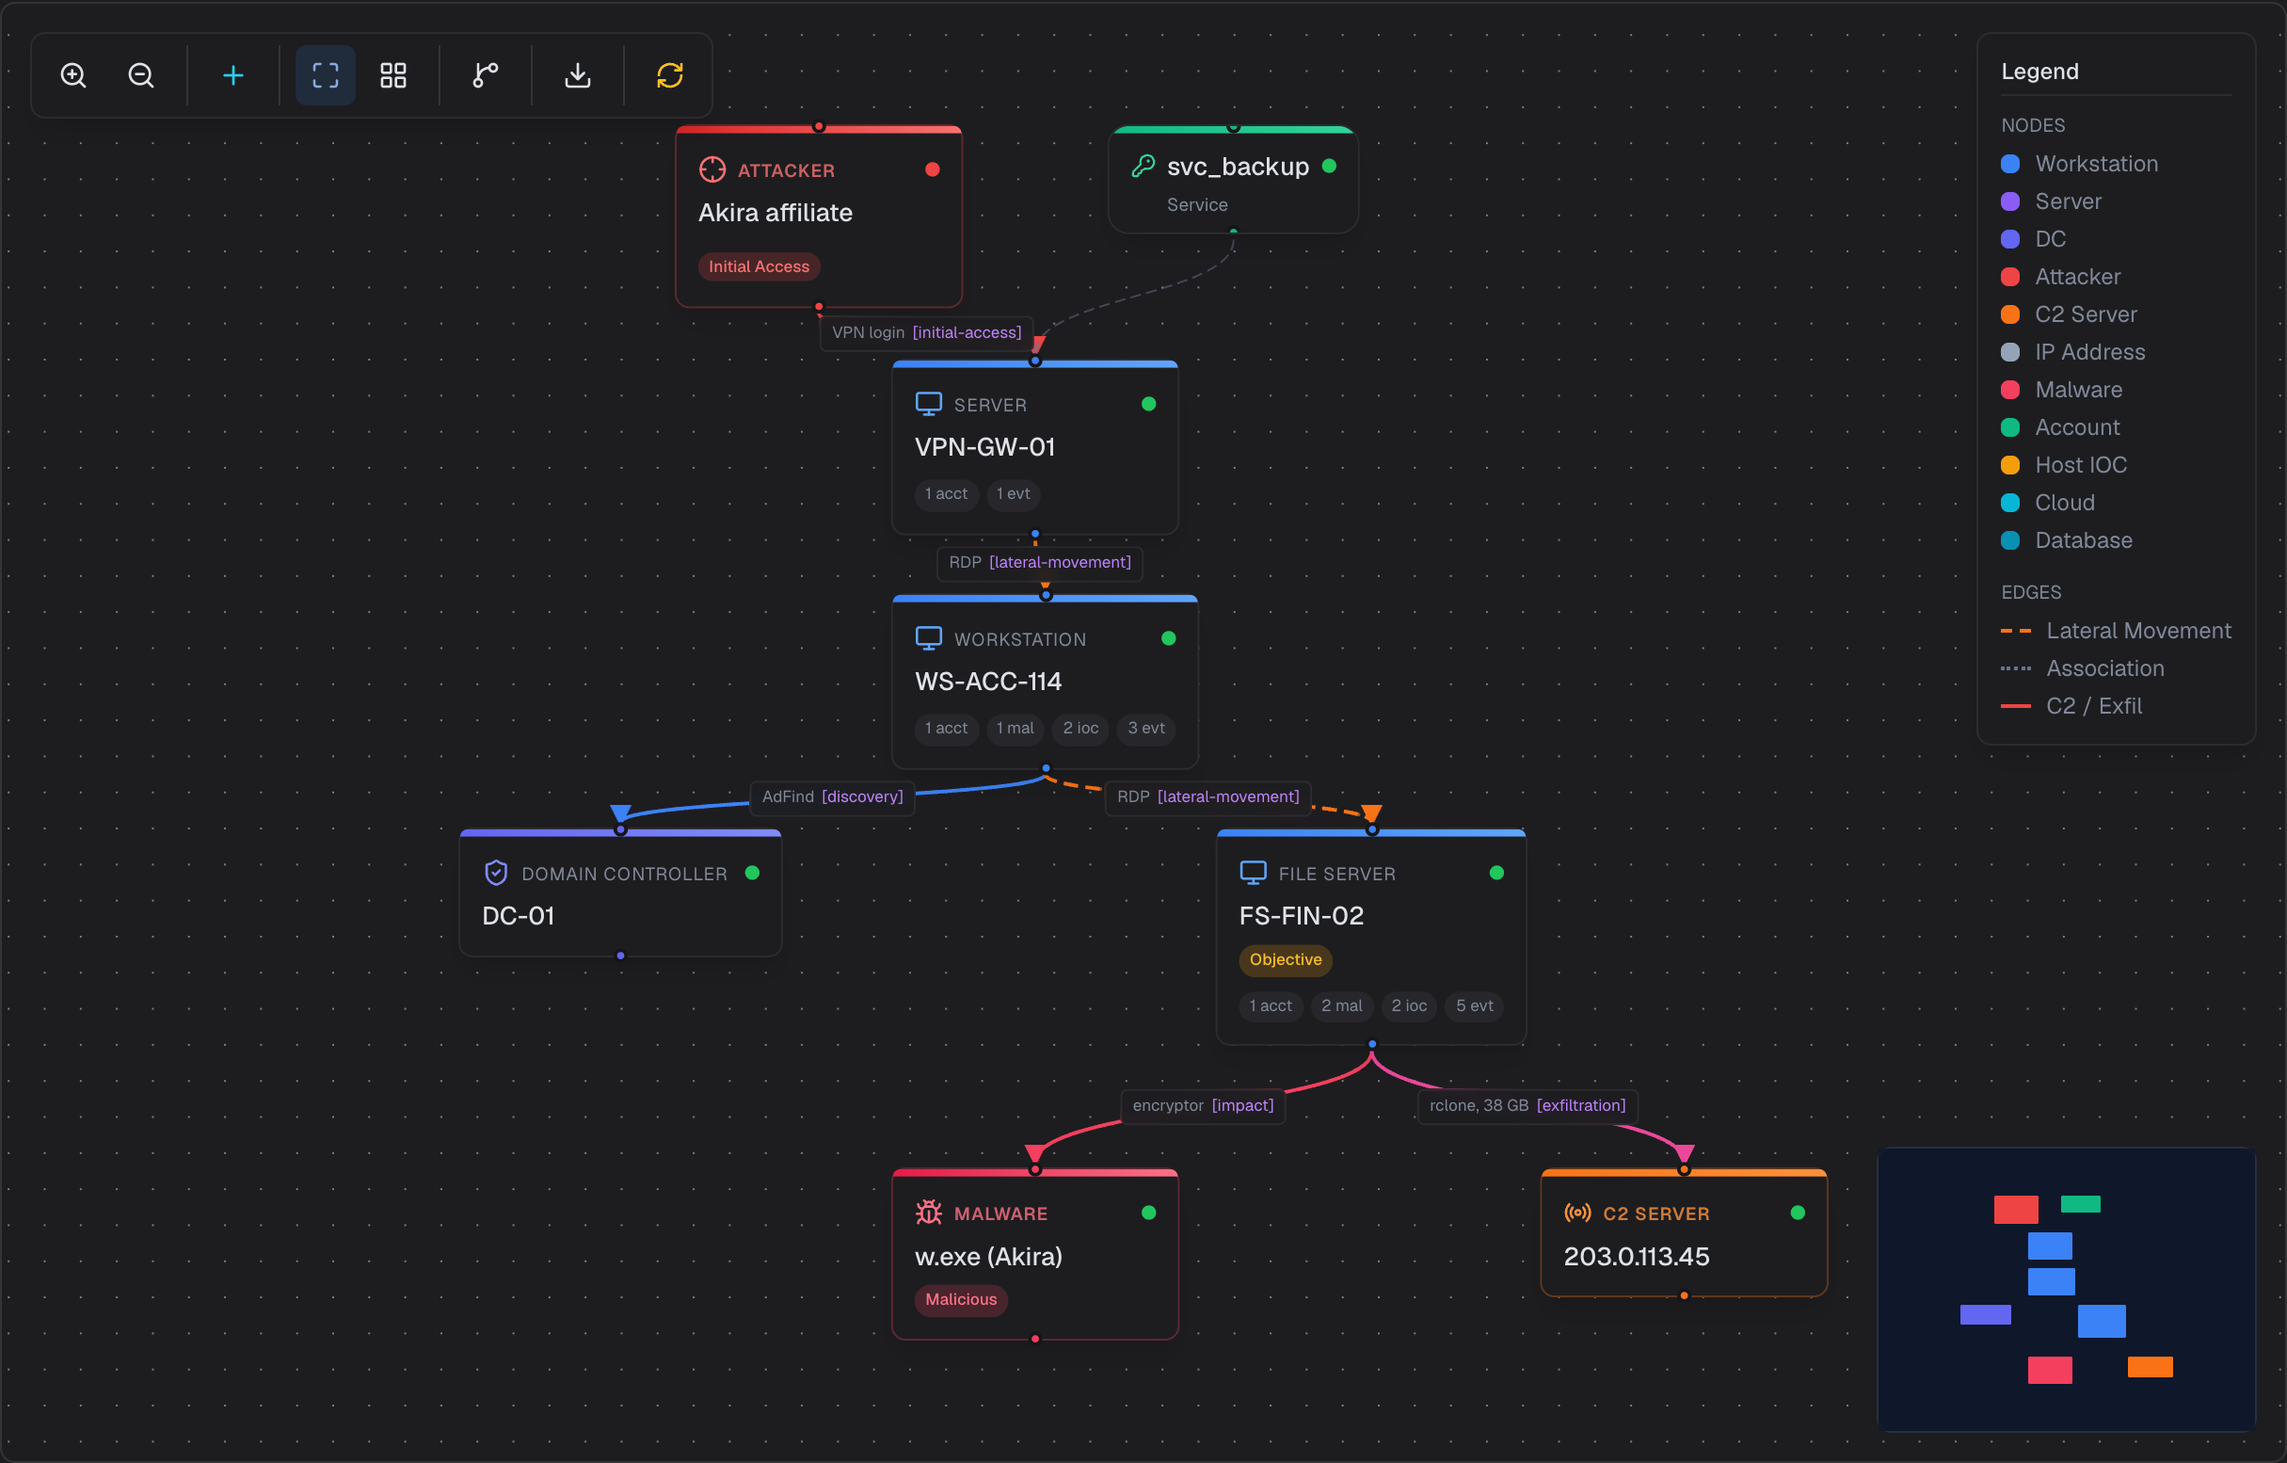
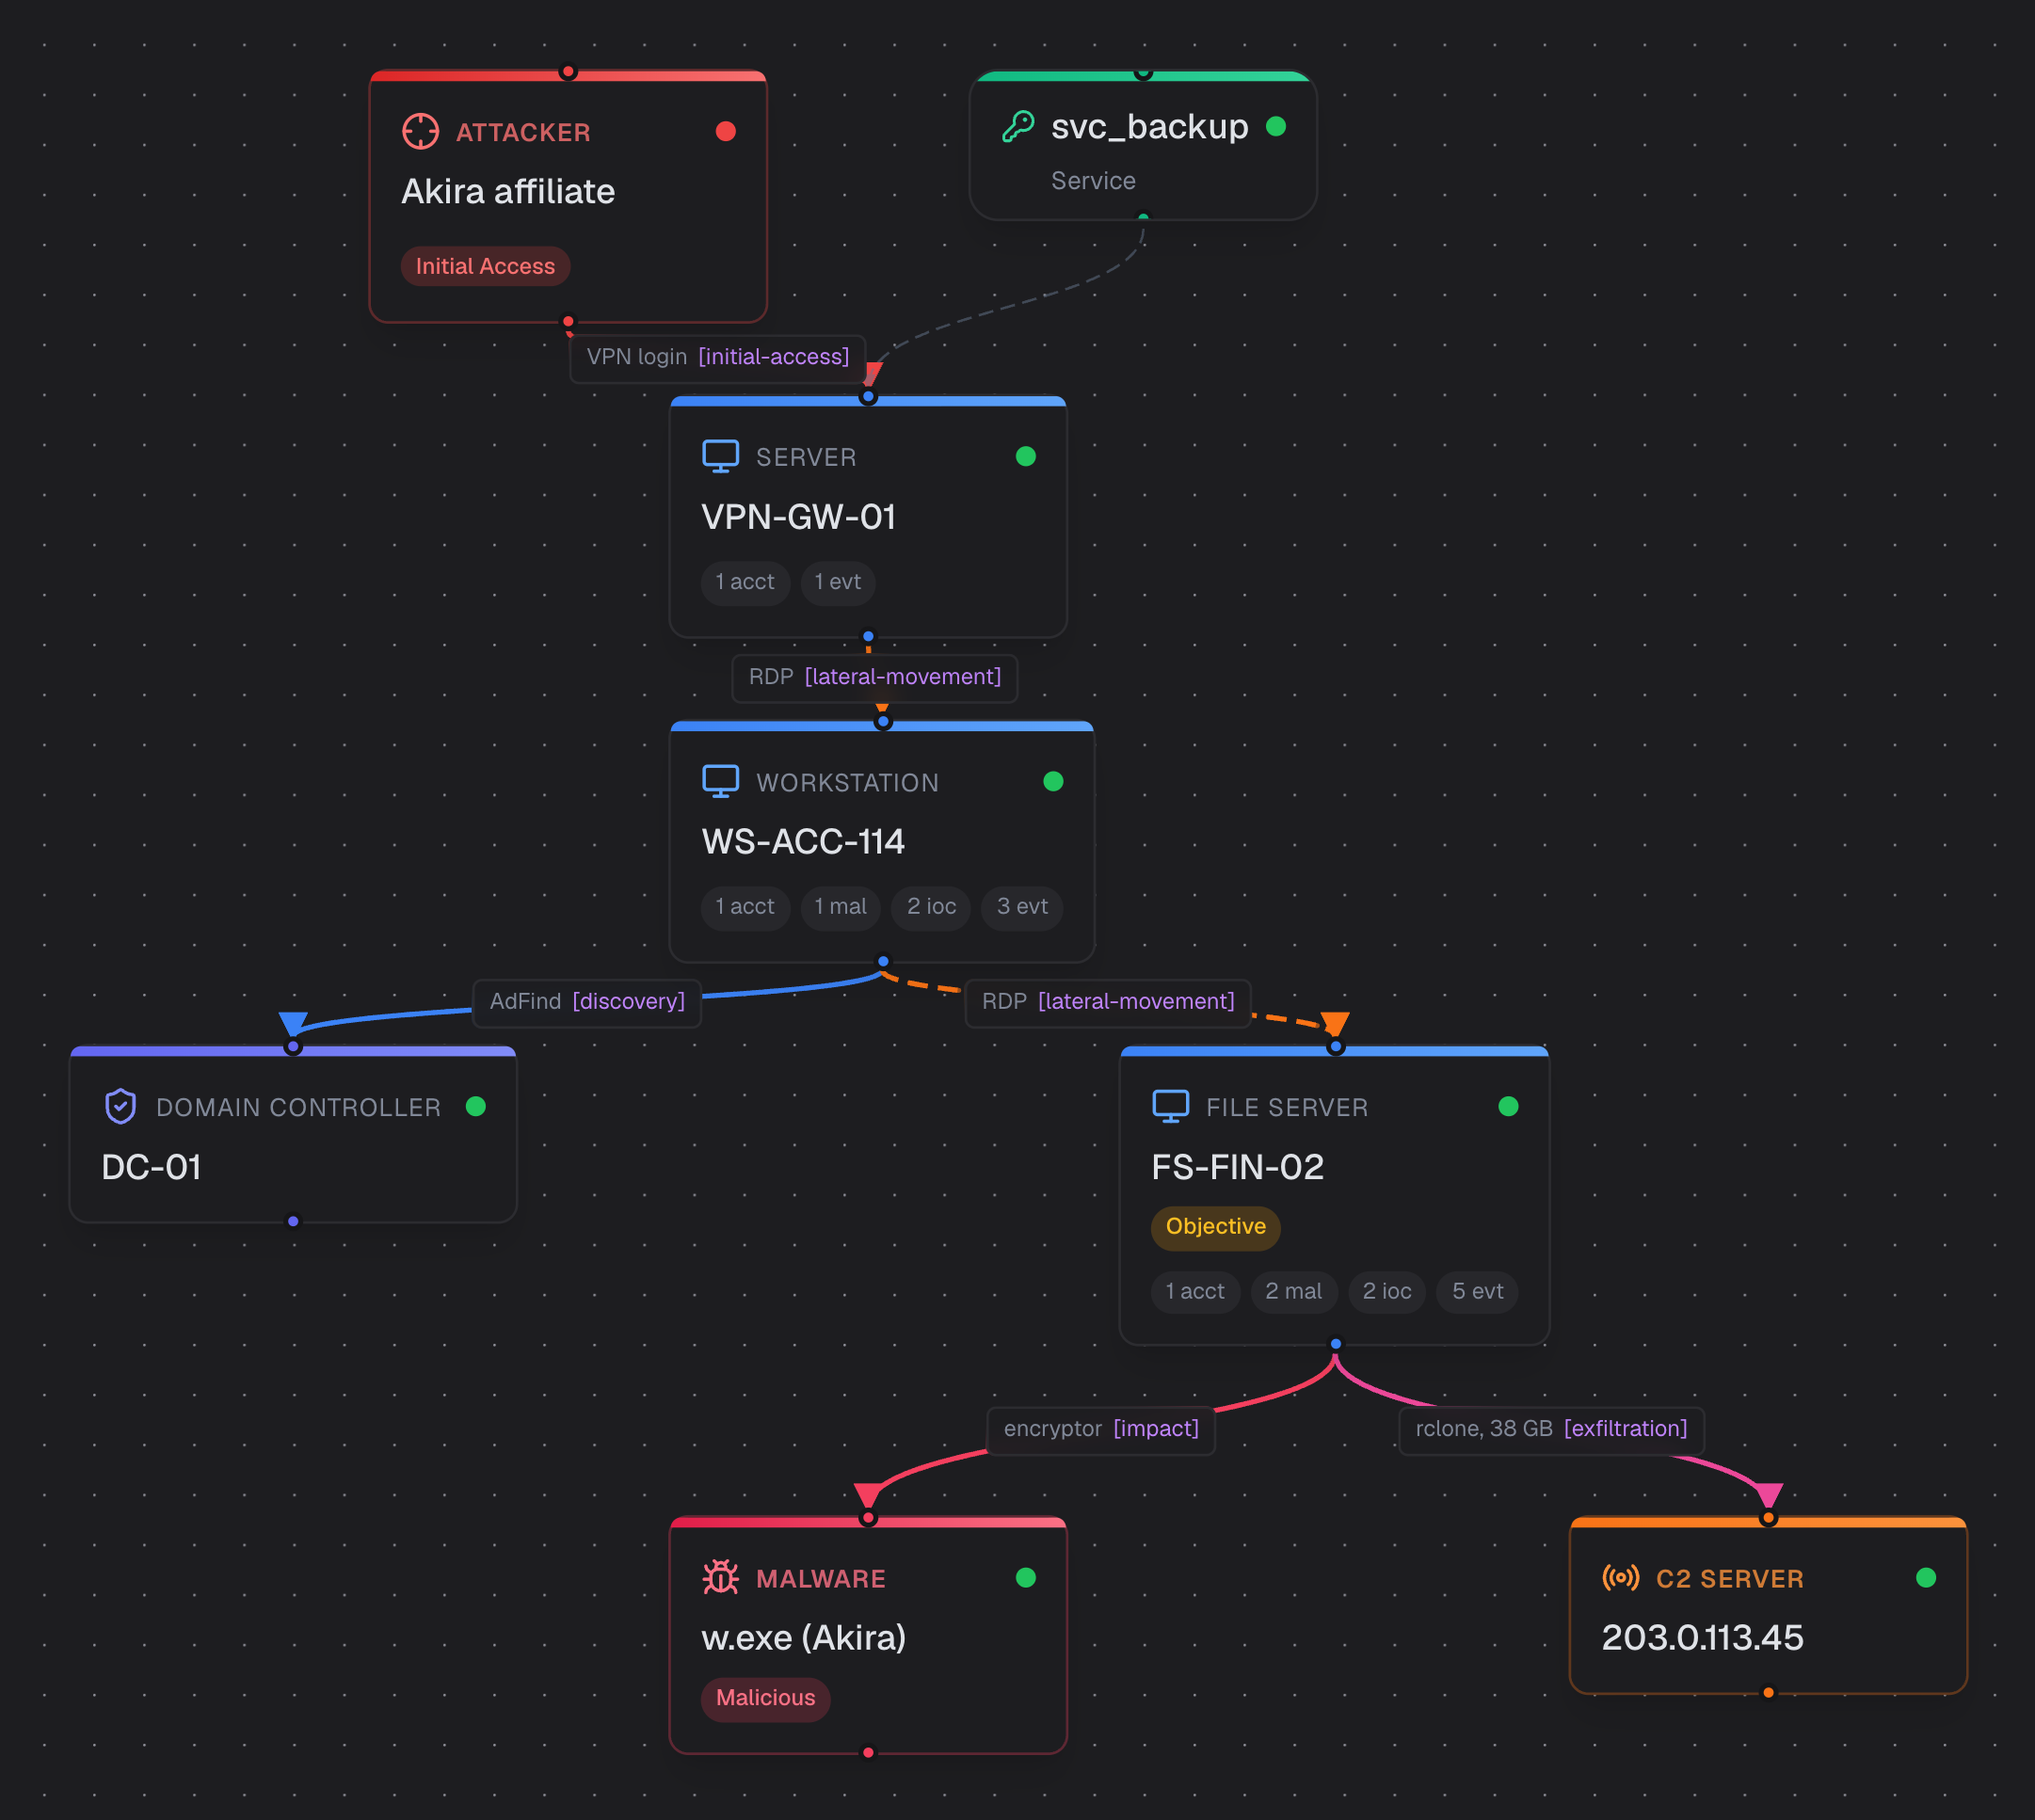
docs(readme): full-width, readable attack graph screenshot

diff --git a/README.md b/README.md
@@ -89,12 +89,9 @@ ATT&CK matrix, evidence, notes, decisions and actions, and the post-incident rev
 
 ### Attack graph and MITRE ATT&CK
 
-<table>
-<tr>
-<td width="50%"><img src="assets/screenshots/attack-graph.png" alt="Attack graph of a ransomware intrusion" /></td>
-<td width="50%"><img src="assets/screenshots/mitre.png" alt="MITRE ATT&CK matrix and attack chain" /></td>
-</tr>
-</table>
+<p align="center">
+  <img src="assets/screenshots/attack-graph.png" alt="Attack graph of a ransomware intrusion: VPN login with a service account, RDP to a workstation, discovery against the domain controller, lateral movement to the file server, encryption and exfiltration" width="100%" />
+</p>
 
 - **Attack graph** generated from hosts, accounts, indicators, malware and the timeline, then
   edited by hand. Regenerating only adds what is missing and keeps your layout. Export as PNG.
@@ -102,6 +99,8 @@ ATT&CK matrix, evidence, notes, decisions and actions, and the post-incident rev
   technique suggestions from an organization-scoped pattern model.
 - **Response overlay.** Show decisions and response actions on the timeline next to attacker
   activity.
+
+<img src="assets/screenshots/mitre.png" alt="MITRE ATT&CK matrix and attack chain" width="100%" />
 
 ### Evidence and chain of custody
 
